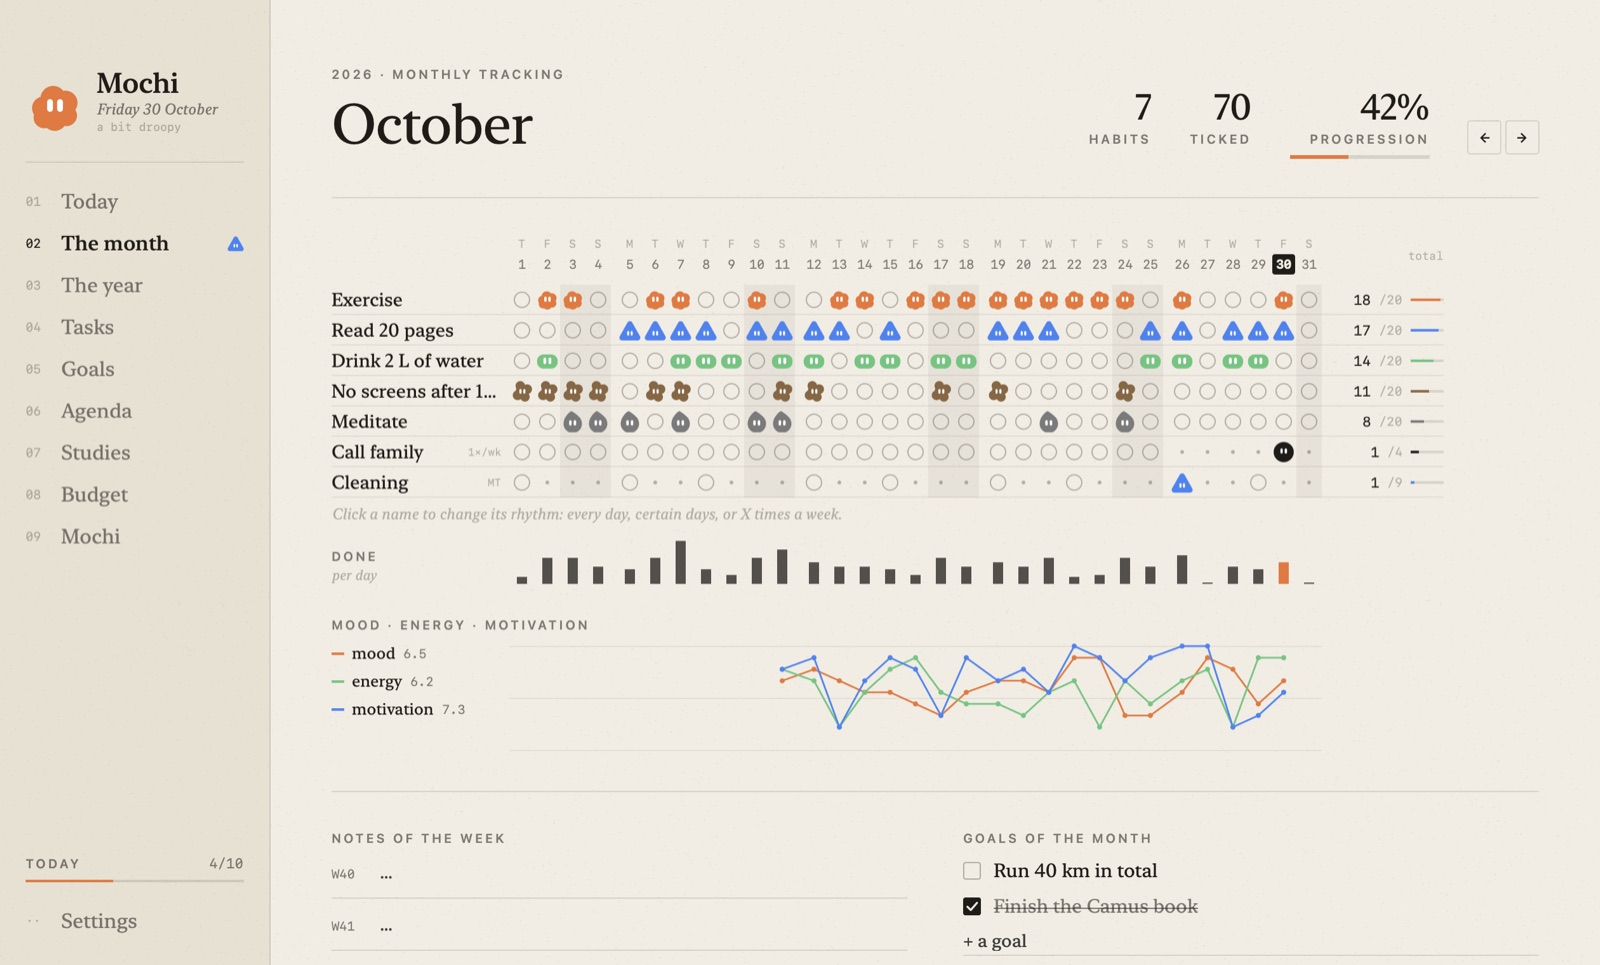
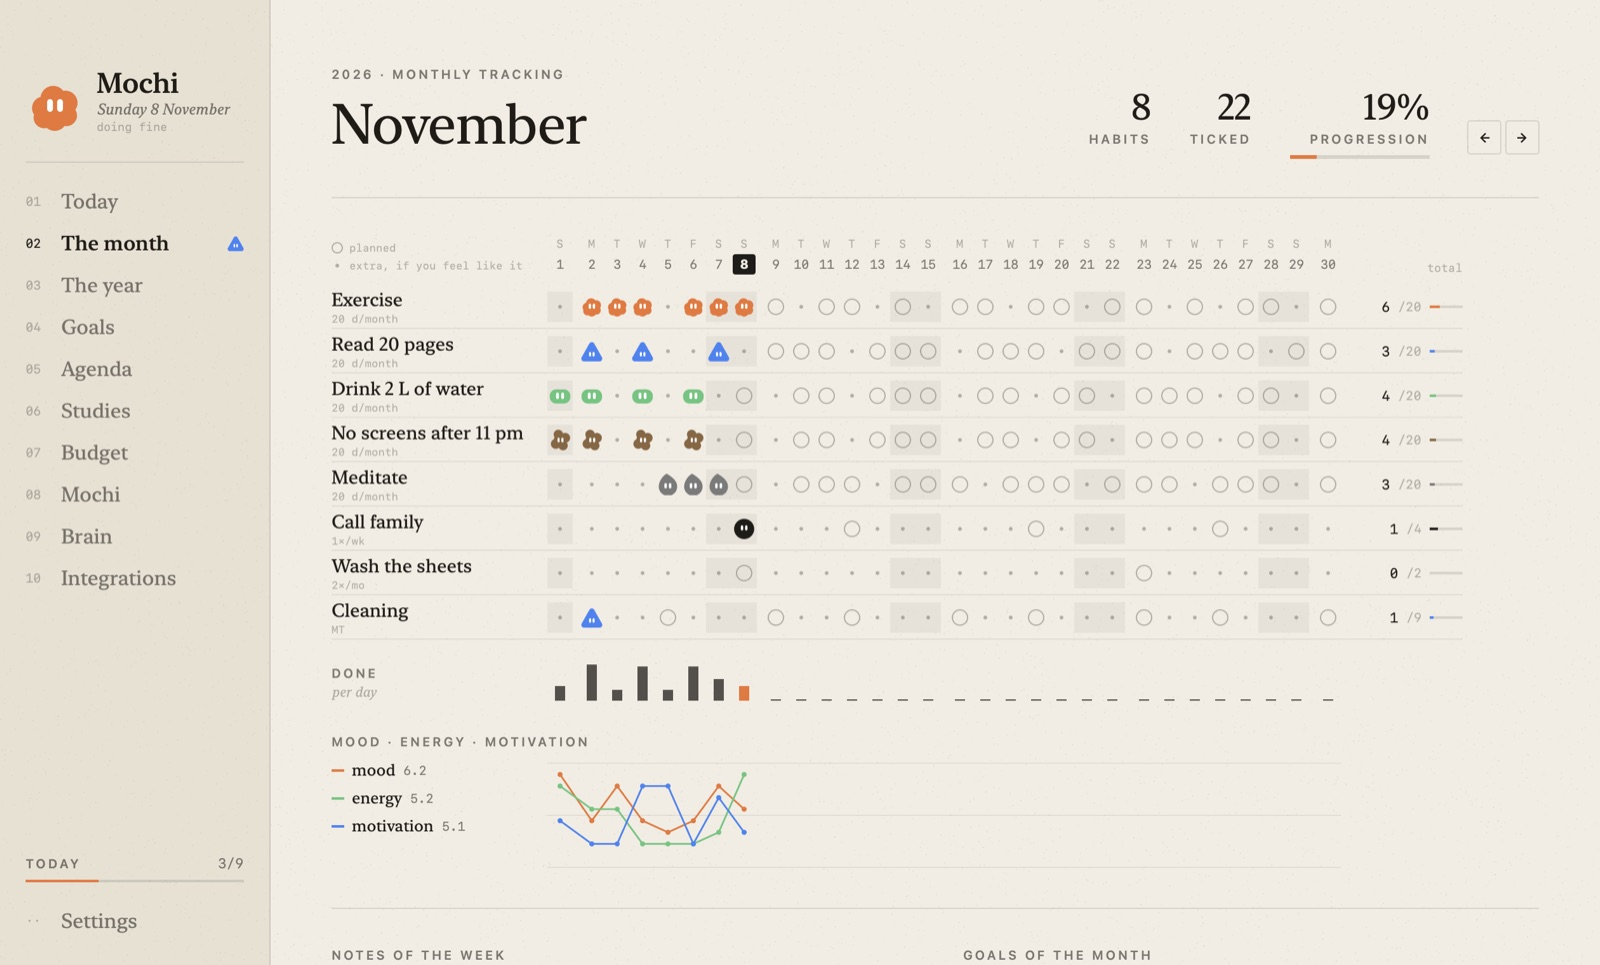
Mochi 1.11 : bilan de la semaine, rappels à ton heure, « j'ai lu 20 pages », le calendrier coche, mois plus calme

diff --git a/index.html b/index.html
@@ -93,7 +93,7 @@
     <h1>Mochi</h1>
     <p class="lede">Un petit compagnon qui vit sur ton Dock. Il tient tes habitudes, ton agenda, tes partiels et ton budget, et il change de mine selon ta semaine.</p>
     <a class="download" href="https://github.com/Tasswest/mochi/releases/latest/download/Mochi.dmg">↓ Télécharger Mochi</a>
-    <div class="meta">Version 1.10 · macOS 14 Sonoma ou plus récent · puce Apple ou Intel · signé et vérifié par Apple</div>
+    <div class="meta">Version 1.11 · macOS 14 Sonoma ou plus récent · puce Apple ou Intel · signé et vérifié par Apple</div>
     <figure>
       <img src="img/aujourdhui.jpg" alt="La page Aujourd'hui de Mochi : habitudes, tâches, échéances et emploi du temps" width="1600" height="1460">
       <figcaption>La page « Aujourd'hui » : ce qui compte, sur une seule feuille.</figcaption>
@@ -116,6 +116,22 @@
       <img src="img/iphone/fr-2.jpg" alt="Mochi sur l'iPhone seul" loading="lazy">
       <img src="img/iphone/fr-3.jpg" alt="Les widgets de Mochi" loading="lazy">
     </div>
+  </div>
+</section>
+
+<section>
+  <div class="wrap">
+    <div class="caps">Nouveau dans la 1.11</div>
+    <h2>Il te connaît un peu mieux chaque semaine</h2>
+    <div class="new">
+      <div><h3>Le bilan du dimanche</h3><p>Le dimanche soir, Mochi fait le point : ce qui a marché, ce qui a glissé — sans aucun reproche — et une seule suggestion pour la semaine qui vient, à garder comme intention du lundi. Avec ton IA, il s'appuie sur tes habitudes, ton humeur et ce qu'il sait de toi ; sans IA, il le fait tout seul.</p></div>
+      <div><h3>Des rappels à ton heure</h3><p>Tu fais toujours ton sport vers 18 h ? Mochi te le rappelle à 17 h 30, pas à une heure fixe. Il apprend tout seul, à partir des fois où tu coches.</p></div>
+      <div><h3>« J'ai lu 20 pages »</h3><p>Dis-le ou tape-le avec ⌥ Espace : l'habitude qui y ressemble est cochée. « Hier j'ai fait le ménage » coche la veille.</p></div>
+      <div><h3>Ton calendrier coche aussi</h3><p>Un rendez-vous « Réviser maths » terminé dans ton calendrier coche « Réviser », comme une course Strava coche « Sport ».</p></div>
+      <div><h3>Cocher depuis la barre des menus</h3><p>Clic droit sur Mochi : les habitudes du jour sont là, à cocher sans ouvrir la fenêtre.</p></div>
+      <div><h3>Un mois plus calme</h3><p>« Sport 20 fois par mois » : un cercle seulement les jours prévus, répartis régulièrement, un simple point les autres jours. Un jour manqué ou fait en avance, et la suite se réajuste.</p></div>
+    </div>
+    <figure style="max-width:560px"><img src="img/bilan.jpg" alt="Le bilan de la semaine : habitudes, ce qui a marché, ce qui a glissé et une suggestion" loading="lazy"><figcaption>Le bilan du dimanche soir</figcaption></figure>
   </div>
 </section>
 

diff --git a/en.html b/en.html
@@ -86,7 +86,7 @@
     <h1>Mochi</h1>
     <p class="lede">A little companion that lives on your Dock. It keeps your habits, agenda, exams and budget, and its mood follows your week.</p>
     <a class="download" href="https://github.com/Tasswest/mochi/releases/latest/download/Mochi.dmg">↓ Download Mochi</a>
-    <div class="meta">Version 1.10 · macOS 14 Sonoma or later · Apple silicon or Intel · signed and notarized by Apple</div>
+    <div class="meta">Version 1.11 · macOS 14 Sonoma or later · Apple silicon or Intel · signed and notarized by Apple</div>
     <figure>
       <img src="img/en/today.jpg" alt="Mochi's Today page: habits, tasks, deadlines and timetable">
       <figcaption>The Today page: what matters, on a single sheet.</figcaption>
@@ -109,6 +109,22 @@
       <img src="img/iphone/en-2.jpg" alt="Mochi on the iPhone alone" loading="lazy">
       <img src="img/iphone/en-3.jpg" alt="Mochi's widgets" loading="lazy">
     </div>
+  </div>
+</section>
+
+<section>
+  <div class="wrap">
+    <div class="caps">New in 1.11</div>
+    <h2>It gets to know you a little better every week</h2>
+    <div class="new">
+      <div><h3>The Sunday review</h3><p>On Sunday evening, Mochi looks back: what worked, what slipped — with no blame at all — and a single suggestion for the week ahead, to keep as Monday’s intention. With your AI, it draws on your habits, your mood and what it knows about you; without AI, it does it on its own.</p></div>
+      <div><h3>Reminders at your time</h3><p>Always exercise around 6 pm? Mochi reminds you at 5:30, not at a fixed time. It learns on its own, from when you tick.</p></div>
+      <div><h3>“I read 20 pages”</h3><p>Say it or type it with ⌥ Space: the habit that matches gets ticked.</p></div>
+      <div><h3>Your calendar ticks too</h3><p>A finished “Revise maths” event in your calendar ticks “Revise”, just like a Strava run ticks “Exercise”.</p></div>
+      <div><h3>Tick from the menu bar</h3><p>Right-click Mochi: today’s habits are right there, ready to tick without opening the window.</p></div>
+      <div><h3>A calmer month</h3><p>“Exercise 20 times a month”: a circle only on planned days, spread evenly, a simple dot on the others. Miss a day or do it early, and the rest adjusts.</p></div>
+    </div>
+    <figure style="max-width:560px"><img src="img/en/review.jpg" alt="The weekly review: habits, what worked, what slipped and one suggestion" loading="lazy"><figcaption>The Sunday evening review</figcaption></figure>
   </div>
 </section>
 

diff --git a/confidentialite.html b/confidentialite.html
@@ -53,6 +53,9 @@
   <h2>Les intégrations (sur Mac)</h2>
   <p>Rien n'est branché par défaut. Chaque accès (Calendrier d'Apple, Gmail, Google Drive, Google Agenda, Strava) se coche à part, en lecture ou en écriture, et se coupe à tout moment. Google et Strava passent par ton propre accès : la connexion se fait dans ton navigateur, le jeton est rangé dans le Trousseau de ton Mac, et tes données vont directement de Google ou de Strava à ton Mac, sans serveur de Mochi. Ce que l'assistant lit pour te répondre (un mail, un fichier, un rendez-vous) est envoyé au service d'IA que tu as choisi. Mochi ne lit que tes activités Strava, pour cocher l'habitude qui va avec.</p>
 
+  <h2>Bilan de la semaine et rappels à ton heure (sur Mac)</h2>
+  <p>Pour te rappeler une habitude à ton heure, Mochi garde sur ton Mac l'heure à laquelle tu l'as cochée (90 jours au plus). Le bilan du dimanche est enregistré dans ton carnet, sur ton Mac. Si tu as ajouté une clé d'IA, un résumé de ta semaine (habitudes cochées, humeur, notes du jour et ce que le cerveau sait de toi qui s'y rapporte) est envoyé à ce service pour l'écrire ; sans clé, rien ne part. Quand ton calendrier coche une habitude, Mochi lit tes rendez-vous sur ton Mac et n'envoie rien. Le bilan se coupe dans Réglages → Notifications.</p>
+
   <h2>Apple Santé (sur iPhone)</h2>
   <p>Si une habitude doit se cocher toute seule avec Apple Santé, l'app iPhone lit seulement ce qu'il faut (entraînements, pas, sommeil ou pleine conscience), après ton accord. Ces données restent sur ton iPhone : seul le fait que la case est cochée part vers ton Mac relié. Elles ne servent jamais à la publicité et ne sont envoyées à aucun service d'IA.</p>
 
@@ -77,7 +80,7 @@
   <h2>Contact</h2>
   <p>Une question : <a href="https://github.com/Tasswest/mochi/issues">ouvre un ticket sur GitHub</a>.</p>
 
-  <footer>Mise à jour le 7 novembre 2026. · <a href="privacy.html">English</a></footer>
+  <footer>Mise à jour le 8 novembre 2026. · <a href="privacy.html">English</a></footer>
 </main>
 </body>
 </html>

diff --git a/privacy.html b/privacy.html
@@ -53,6 +53,9 @@
   <h2>Integrations (on Mac)</h2>
   <p>Nothing is connected by default. Each access (Apple Calendar, Gmail, Google Drive, Google Calendar, Strava) is ticked on its own, for reading or writing, and can be turned off at any time. Google and Strava use your own access: you sign in in your browser, the token is kept in your Mac’s Keychain, and your data goes straight from Google or Strava to your Mac, with no Mochi server. What the assistant reads to answer you (an email, a file, an event) is sent to the AI service you chose. Mochi only reads your Strava activities, to tick the matching habit.</p>
 
+  <h2>Weekly review and reminders at your time (on Mac)</h2>
+  <p>To remind you of a habit at your usual time, Mochi keeps on your Mac the time you ticked it (90 days at most). The Sunday review is saved in your notebook, on your Mac. If you added an AI key, a summary of your week (habits ticked, mood, daily notes and what the brain knows about you that relates to them) is sent to that service to write it; without a key, nothing is sent. When your calendar ticks a habit, Mochi reads your events on your Mac and sends nothing. The review can be turned off in Settings → Notifications.</p>
+
   <h2>Apple Health (on iPhone)</h2>
   <p>If a habit should tick itself with Apple Health, the iPhone app reads only what it needs (workouts, steps, sleep or mindfulness), after your permission. This data stays on your iPhone: only the fact that the box is ticked goes to your linked Mac. It is never used for advertising and never sent to any AI service.</p>
 
@@ -77,7 +80,7 @@
   <h2>Contact</h2>
   <p>A question? <a href="https://github.com/Tasswest/mochi/issues">Open an issue on GitHub</a>.</p>
 
-  <footer>Updated on 7 November 2026. · <a href="confidentialite.html">Français</a></footer>
+  <footer>Updated on 8 November 2026. · <a href="confidentialite.html">Français</a></footer>
 </main>
 </body>
 </html>
